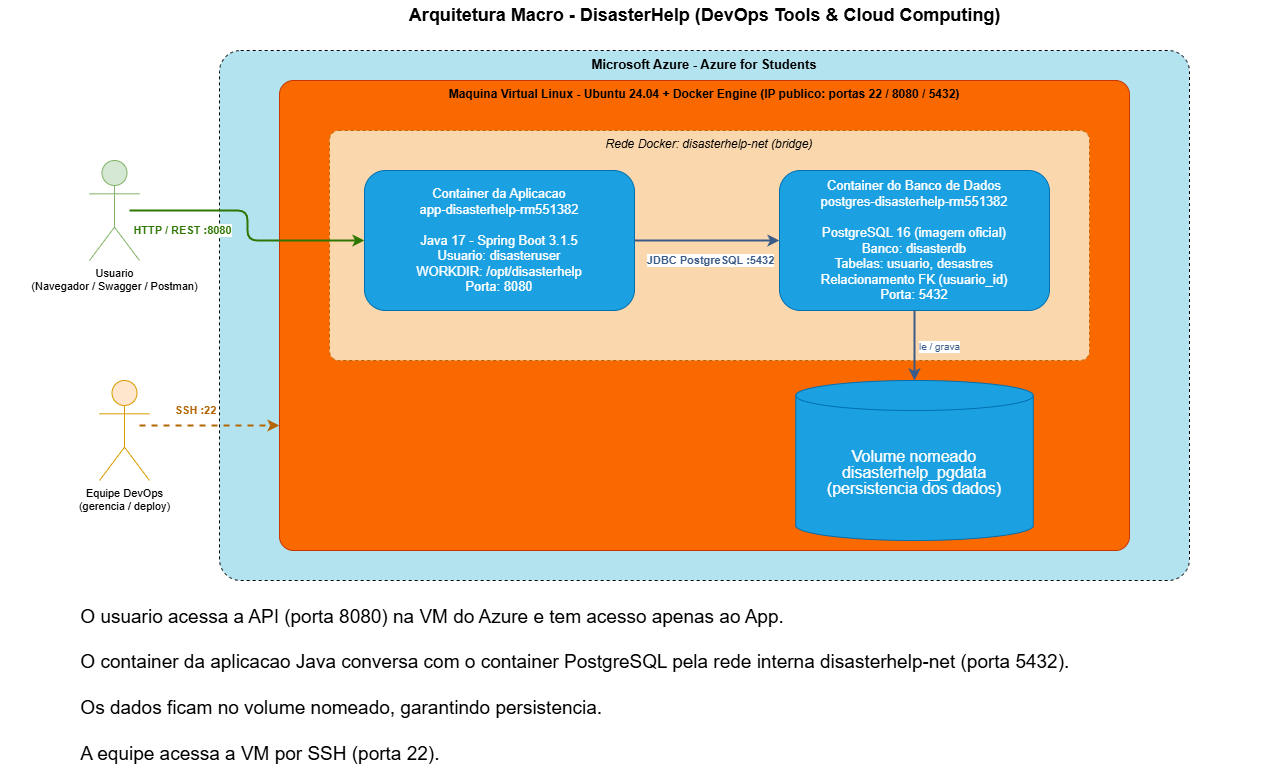
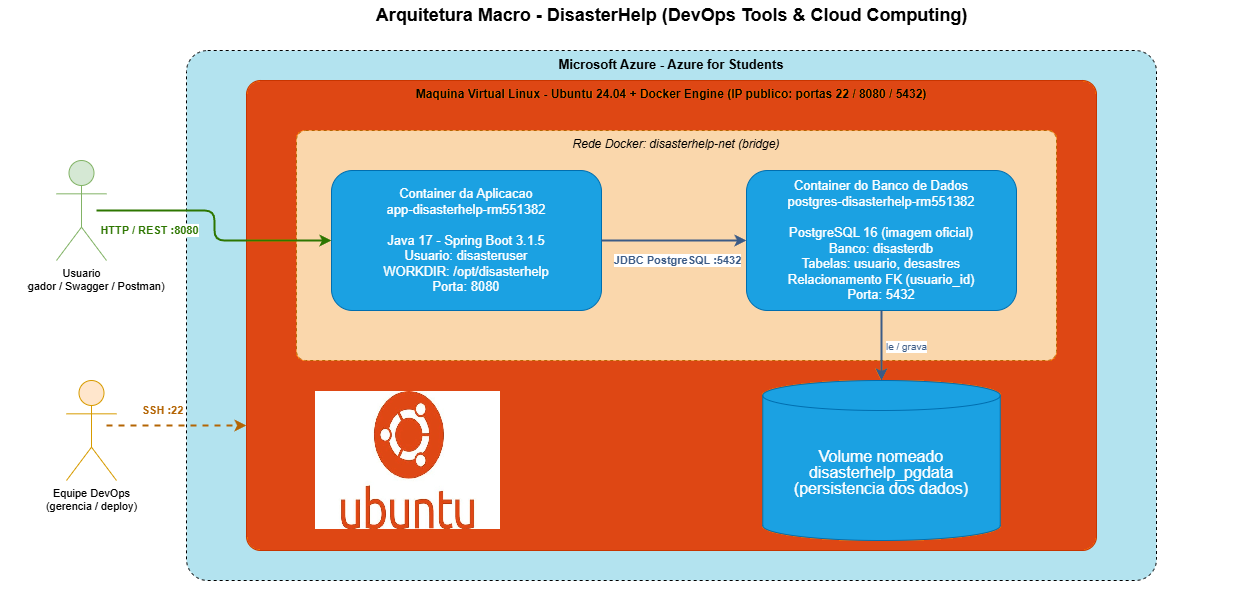
README: explica build multi-stage, marca CRUD completo nas duas tabelas e ajusta resumo do fluxo; atualiza imagem da arquitetura

diff --git a/README.md b/README.md
@@ -34,10 +34,15 @@ A solucao roda em dois containers Docker orquestrados por Docker Compose, na mes
 - `app-disasterhelp-rm551382`: imagem personalizada (build multi-stage), API Java/Spring Boot na porta 8080.
 - `postgres-disasterhelp-rm551382`: imagem oficial postgres:16, banco de dados na porta 5432.
 
+O **build multi-stage** do app acontece em duas etapas dentro do mesmo Dockerfile: na primeira, uma
+imagem com Maven + JDK compila o codigo-fonte e gera o arquivo `.jar`; na segunda, esse `.jar` e
+copiado para uma imagem enxuta so com o Java de execucao (JRE). Dessa forma a imagem final fica
+menor e mais segura, sem carregar as ferramentas de compilacao usadas no build.
+
 Os dados sao gravados em duas tabelas no PostgreSQL:
 
-- `usuario`: usuarios do sistema (usados na autenticacao).
-- `desastres`: eventos climaticos cadastrados (CRUD completo).
+- `usuario`: usuarios do sistema (autenticacao) - CRUD completo.
+- `desastres`: eventos climaticos cadastrados - CRUD completo.
 
 A tabela `desastres` tem a coluna `usuario_id` como chave estrangeira para `usuario(id)`
 (relacionamento N:1, indicando o usuario responsavel pelo registro do desastre). Ao cadastrar um
@@ -55,10 +60,12 @@ resposta da API traz os campos `usuarioId` e `responsavel`.
 
 ![Arquitetura Macro da solucao DisasterHelp](docs/arquitetura.png)
 
-Resumo do fluxo: o usuario acessa a API pela porta 8080 da VM no Azure. Dentro da VM, o Docker
-executa o container da aplicacao e o container do banco, que se comunicam pela rede interna
-`disasterhelp-net`. Os dados do banco ficam em um volume nomeado, mantendo a persistencia mesmo
-que os containers sejam recriados.
+Resumo do fluxo:
+
+- O usuario acessa a API (porta 8080) na VM do Azure e tem acesso apenas ao App.
+- O container da aplicacao Java conversa com o container PostgreSQL pela rede interna disasterhelp-net (porta 5432).
+- Os dados ficam no volume nomeado, garantindo persistencia.
+- A equipe acessa a VM por SSH (porta 22).
 
 ## Como executar (do clone ate a nuvem)
 